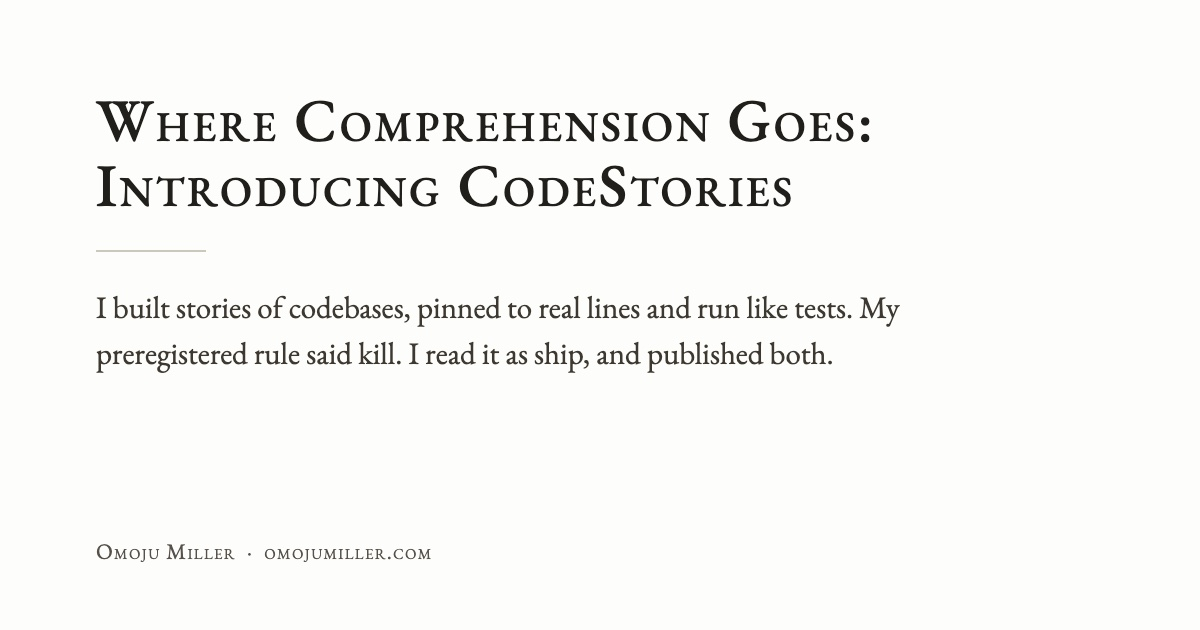
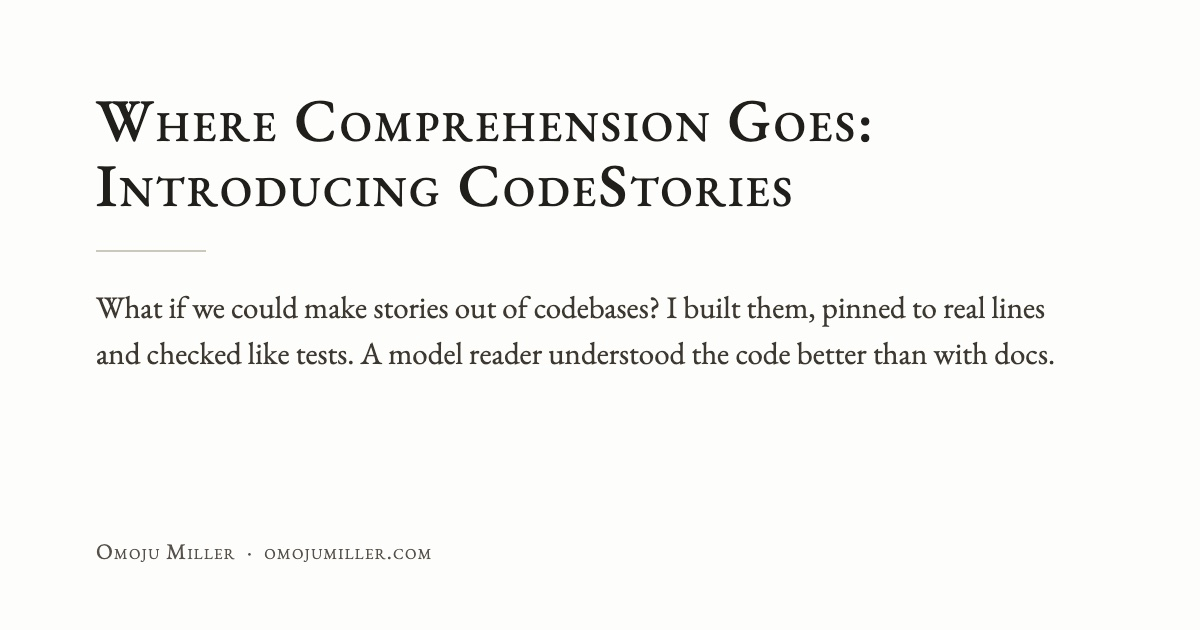
Rewrite the CodeStories post description
Leads with the question, says what was built, and states the finding.
Says "model reader" rather than "readers": a link preview travels
without the essay's caveats, and the comprehension readers in the study
were a model, not people. 164 characters, inside the share card's
165-character limit, and the card is regenerated to match.

Changed region(s): [[0.0617, 0.5429, 0.8633, 0.6032], [0.0617, 0.4524, 0.8942, 0.5127]]

diff --git a/content/2026-10-14-introducing-codestories.md b/content/2026-10-14-introducing-codestories.md
@@ -3,7 +3,7 @@ Date: 2026-10-14
 Category: Blog
 Tags: ai, developer-tools, comprehension, research
 Slug: introducing-codestories
-Description: I built stories of codebases, pinned to real lines and run like tests. My preregistered rule said kill. I read it as ship, and published both.
+Description: What if we could make stories out of codebases? I built them, pinned to real lines and checked like tests. A model reader understood the code better than with docs.
 Status: draft
 
 <figure>
